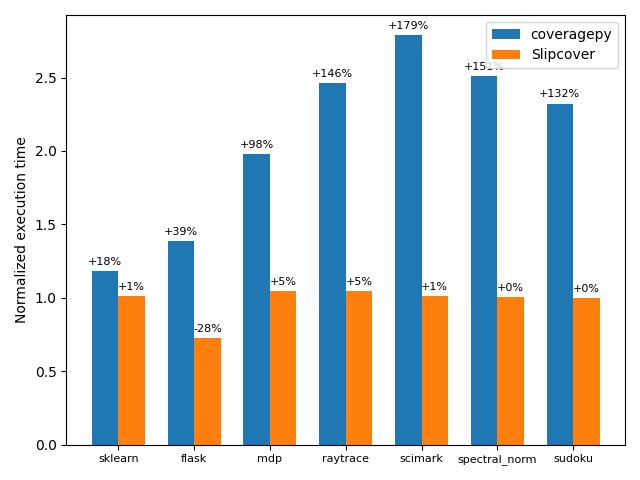
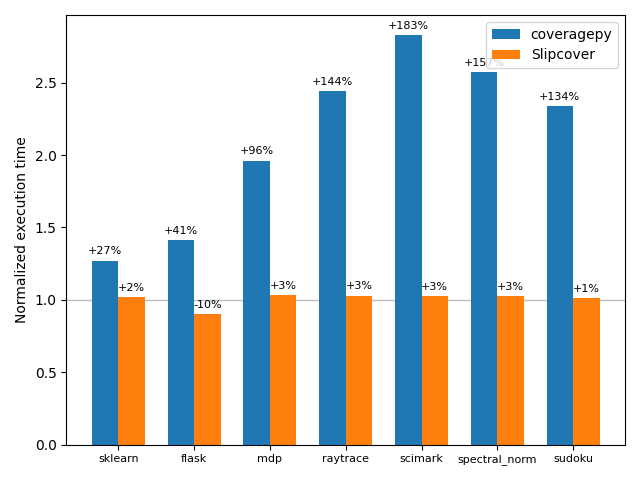
- changed to measuring clock time, which is more customary;
- added faint line to help see where the 1.0 running time norm is;

- reduced flask runs to 10, since 15 didn't seem necessary;

diff --git a/benchmarks/run_benchmarks.py b/benchmarks/run_benchmarks.py
@@ -33,21 +33,18 @@ class Benchmark:
 def run_command(command: str, cwd=None):
     import shlex
     import subprocess
-    import resource
+    import time
 
     print(command)
 
-    before = resource.getrusage(resource.RUSAGE_CHILDREN)
+    begin = time.perf_counter_ns()
     p = subprocess.run(shlex.split(command), cwd=cwd, check=True) # capture_output=True)
-    after = resource.getrusage(resource.RUSAGE_CHILDREN)
+    end = time.perf_counter_ns()
 
-    user_time = after.ru_utime - before.ru_utime
-    sys_time  = after.ru_stime - before.ru_stime
-    results = (user_time, sys_time)
+    elapsed = (end - begin)/1000000000
+    print(round(elapsed, 1))
 
-    print(results, round(sum(results), 1))
-
-    return sum(results)
+    return elapsed
 
 
 def parse_args():
@@ -108,7 +105,7 @@ if FLASK.exists():
                     # coveragepy options from setup.cfg
                     'slipcover_opts': '--source=src,*/site-packages'
                   },
-                  cwd=FLASK, tries=15
+                  cwd=FLASK, tries=10
         )
     )
 
@@ -211,13 +208,14 @@ def plot_results():
     fig, ax = plt.subplots()
     for case, bar_x in zip(nonbase_cases, bars_x):
         r = [median(results[case.name][b.name]) / median(results['base'][b.name]) for b in benchmarks]
-        rects = ax.bar(x + bar_x, r, width/n_bars, label=case.label)
+        rects = ax.bar(x + bar_x, r, width/n_bars, label=case.label, zorder=2)
 
         ax.bar_label(rects, padding=3, labels=[f'{"+" if round((v-1)*100)>=0 else ""}{round((v-1)*100)}%' for v in r], fontsize=8)
 
 #    ax.set_title('')
     ax.set_ylabel('Normalized execution time')
     ax.set_xticks(x, labels=[b.name for b in benchmarks], fontsize=8)
+    ax.axhline(y=1, color='grey', linewidth=1, alpha=.5, zorder=1)
     ax.legend()
 
     fig.tight_layout()
